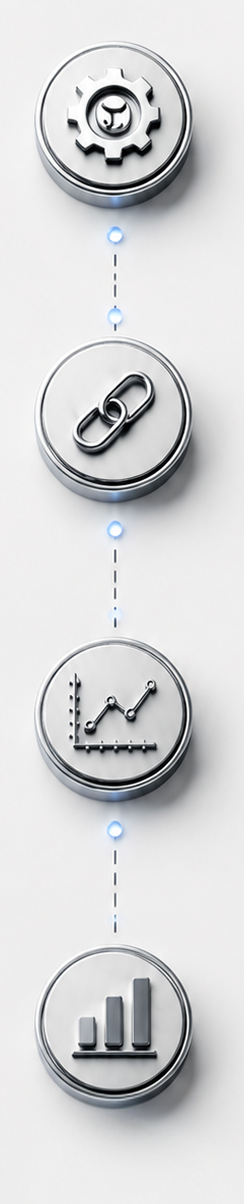
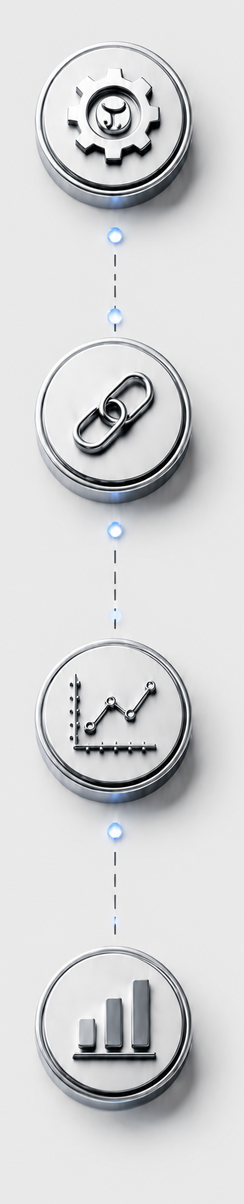
final fix 20.09

diff --git a/src/translations.ts b/src/translations.ts
@@ -1175,7 +1175,7 @@ export const translations = {
                     totalIncome: "Загальний дохід",
                     finalBalance: "Підсумковий баланс",
                     description: "Terra EA в середньому робить стабільні +25% на рік/1.6% на місяць.<br/>Чим більший термін інвестицій, тим більша магія складного відсотку!",
-                    descriptionAero: "Aero EA в середньому робить стабільні +30% на рік/2.5% на місяць.<br/>Чим більший термін інвестицій, тим більша магія складного відсотку!",
+                    descriptionAero: "Aero EA в середньому робить стабільні +35% на рік/2.9% на місяць.<br/>Чим більший термін інвестицій, тим більша магія складного відсотку!",
                     descriptionHydro: "Hydro EA в середньому робить стабільні +50% на рік/4.2% на місяць.<br/>Чим більший термін інвестицій, тим більша магія складного відсотку!"
                 }
             }
@@ -1256,9 +1256,9 @@ export const translations = {
                 subtitle: "На live рахунку Aero демонструє феноменальний результат з дохідністю 2%/місяць при просадці 3.7%",
                 winrateText: "При цьому його winrate досягнув показника в 86.8%.",
                 stats: [
-                    {label: "Year profit", value: "+30%"},
-                    {label: "Max drawdown", value: "3.7%"},
-                    {label: "Winrate", value: "86.8%"}
+                    {label: "Year profit", value: "+35%"},
+                    {label: "Max drawdown", value: "10%"},
+                    {label: "Winrate", value: "85%"}
                 ],
                 button: "Дивитися статистику"
             },
@@ -1393,7 +1393,7 @@ export const translations = {
                 {
                     name: "Aero EA",
                     description: "Торговий бот для XAUUSD (золота), створений на основі стратегії пробою азійського діапазону.",
-                    advantages: {yearProfit: "+30%", maxDrawDown: "3.7%", winRate: "86.8%"},
+                    advantages: {yearProfit: "+35%", maxDrawDown: "10%", winRate: "85%"},
                     price: 900,
                     href: "/aero",
                     prop: true,
@@ -1469,17 +1469,13 @@ export const translations = {
                     answer: "Ліцензія безстрокова. Ви купуєте її один раз і користуєтеся без обмежень у часі. Прив’язка відбувається до номера рахунку під час першого запуску: один рахунок — одна активація. Якщо потрібен ще один рахунок — просто напишіть нам, і ми додамо його безкоштовно. Кількість рахунків для одного покупця не обмежена."
                 },
                 {
-                    question: "Чи можна втратити весь депозит?",
-                    answer: "Торгівля з плечем завжди несе ризик втрат, і ми не станемо стверджувати протилежне. Але наші налаштування підібрані так, щоб просадка залишалася в межах 15–20%, і ці показники підтверджуються статистикою."
-                },
-                {
                     question: "Чи отримаю я оновлення?",
                     answer: "Так, усі оновлення входять у вартість — доплачувати нічого не потрібно. Ми постійно оновлюємо своїх ботів: стежимо за їхньою роботою на реальних рахунках, адаптуємо до змін у брокерів і покращуємо фільтри входу. Частина налаштувань оновлюється на нашому боці та застосовується автоматично, без перевстановлення. Про великі оновлення ми повідомляємо та надсилаємо нову версію."
                 },
                 {
-                    question: "Як отримати консультацію?",
-                    answer: "Напишіть нам на пошту або в Telegram, де ми зможемо підібрати найбільш відповідний варіант під ваші цілі!"
-                }
+                    question: "Чи можна втратити весь депозит?",
+                    answer: "Торгівля з плечем завжди несе ризик втрат, і ми не станемо стверджувати протилежне. Але наші налаштування підібрані так, щоб просадка залишалася в межах 15–20%, і ці показники підтверджуються статистикою."
+                },
             ],
             steps: {
                 title: "<span>Шлях від налаштування</span> до першої угоди",
@@ -3038,7 +3034,7 @@ export const translations = {
                     totalIncome: "Общий доход",
                     finalBalance: "Итоговый баланс",
                     description: "Terra EA в среднем делает стабильные +25% в год/1.6% в месяц.<br/>Чем больше срок инвестиций, тем больше магия сложного процента!",
-                    descriptionAero: "Aero EA в среднем делает стабильные +30% в год/2.5% в месяц.<br/>Чем больше срок инвестиций, тем больше магия сложного процента!",
+                    descriptionAero: "Aero EA в среднем делает стабильные +35% в год/2.9% в месяц.<br/>Чем больше срок инвестиций, тем больше магия сложного процента!",
                     descriptionHydro: "Hydro EA в среднем делает стабильные +50% в год/4.2% в месяц.<br/>Чем больше срок инвестиций, тем больше магия сложного процента!"
                 }
             }
@@ -3118,9 +3114,9 @@ export const translations = {
                 subtitle: "На live счету Aero демонстрирует феноменальный результат с доходностью 2%/месяц при просадке 3.7%",
                 winrateText: "При этом его winrate достиг показателя в 86.8%.",
                 stats: [
-                    {label: "Year profit", value: "+30%"},
-                    {label: "Max drawdown", value: "3.7%"},
-                    {label: "Winrate", value: "86.8%"}
+                    {label: "Year profit", value: "+35%"},
+                    {label: "Max drawdown", value: "10%"},
+                    {label: "Winrate", value: "85%"}
                 ],
                 button: "Смотреть статистику"
             },
@@ -3255,7 +3251,7 @@ export const translations = {
                 {
                     name: "Aero EA",
                     description: "Торговый бот для XAUUSD (золота), созданный на основе стратегии пробоя азиатского диапазона.",
-                    advantages: {yearProfit: "+30%", maxDrawDown: "3.7%", winRate: "86.8%"},
+                    advantages: {yearProfit: "+35%", maxDrawDown: "10%", winRate: "85%"},
                     price: 900,
                     href: "/aero",
                     prop: true,
@@ -3319,17 +3315,13 @@ export const translations = {
                     answer: "Лицензия бессрочная. Вы покупаете её один раз и пользуетесь без ограничений по времени. Привязка происходит к номеру счёта при первом запуске: один счёт — одна активация. Если нужен ещё один счёт — просто напишите нам, и мы добавим его бесплатно. Количество счетов для одного покупателя не ограничено."
                 },
                 {
-                    question: "Можно ли потерять весь депозит?",
-                    answer: "Торговля с плечом всегда несёт риск потерь, и мы не станем утверждать обратное. Но наши настройки подобраны так, чтобы просадка оставалась в пределах 15–20%, и эти показатели подтверждаются статистикой."
-                },
-                {
                     question: "Получу ли я обновления?",
                     answer: "Да, все обновления входят в стоимость — доплачивать ничего не нужно. Мы постоянно обновляем своих ботов: следим за их работой на реальных счетах, адаптируем к изменениям у брокеров и улучшаем фильтры входа. Часть настроек обновляется на нашей стороне и применяется автоматически, без переустановки. О крупных обновлениях мы сообщаем и присылаем новую версию."
                 },
                 {
-                    question: "Как получить консультацию?",
-                    answer: "Напишите нам на почту или в Telegram, где мы сможем подобрать наиболее подходящий вариант под ваши цели!"
-                }
+                    question: "Можно ли потерять весь депозит?",
+                    answer: "Торговля с плечом всегда несёт риск потерь, и мы не станем утверждать обратное. Но наши настройки подобраны так, чтобы просадка оставалась в пределах 15–20%, и эти показатели подтверждаются статистикой."
+                },
             ], hero: {
                 title: "Ваш капитал растет — без вашего участия",
                 desc: "Торговые боты, которые самостоятельно работают по четкой стратегии — с минимальной просадкой и реальной историей на живых счетах.",
@@ -4760,7 +4752,7 @@ export const translations = {
                     totalIncome: "Total Income",
                     finalBalance: "Final Balance",
                     description: "Terra EA averages a stable +25% per year / 1.6% per month.<br/>The longer the investment period, the greater the magic of compound interest!",
-                    descriptionAero: "Aero EA averages a stable +30% per year / 2.5% per month.<br/>The longer the investment period, the greater the magic of compound interest!",
+                    descriptionAero: "Aero EA averages a stable +35% per year / 2.9% per month.<br/>The longer the investment period, the greater the magic of compound interest!",
                     descriptionHydro: "Hydro EA averages a stable +50% per year / 4.2% per month.<br/>The longer the investment period, the greater the magic of compound interest!"
                 }
             }
@@ -4842,9 +4834,9 @@ export const translations = {
                 subtitle: "On a live account, Aero demonstrates phenomenal results with a profitability of 2%/month at a drawdown of 3.7%",
                 winrateText: "Meanwhile, its win rate has reached 86.8%.",
                 stats: [
-                    {label: "Year profit", value: "+30%"},
-                    {label: "Max drawdown", value: "3.7%"},
-                    {label: "Winrate", value: "86.8%"}
+                    {label: "Year profit", value: "+35%"},
+                    {label: "Max drawdown", value: "10%"},
+                    {label: "Winrate", value: "85%"}
                 ],
                 button: "View statistics"
             },
@@ -4988,7 +4980,7 @@ export const translations = {
                 {
                     name: "Aero EA",
                     description: "Expert Advisor for XAUUSD (Gold), built on a Asian Range breakout strategy.",
-                    advantages: {yearProfit: "+30%", maxDrawDown: "3.7%", winRate: "86.8%"},
+                    advantages: {yearProfit: "+35%", maxDrawDown: "10%", winRate: "85%"},
                     price: 900,
                     href: "/aero",
                     prop: true,
@@ -5052,17 +5044,14 @@ export const translations = {
                     answer: "The licence is perpetual. You pay once and use it with no time limit. It is linked to your account number on first launch: one account — one activation. If you need another account, just write to us, and we will add it free of charge. There is no limit on the number of accounts per customer."
                 },
                 {
-                    question: "Can I lose my whole deposit?",
-                    answer: "Trading with leverage always carries the risk of loss, and we will not claim otherwise. However, our settings are designed to keep drawdown within 15–20%, and these figures are supported by our statistics."
-                },
-                {
                     question: "Will I get updates?",
                     answer: "Yes, all updates are included in the price — there is nothing extra to pay. We continuously maintain our bots: we monitor their performance on live accounts, adapt them to changes introduced by brokers, and improve the entry filters. Some settings are updated on our side and applied automatically, with no need to reinstall the bot. We will notify you about major updates and send you the new version."
                 },
                 {
-                    question: "How do I get a consultation?",
-                    answer: "Write to us by email or on Telegram, and we will help you choose the option that best fits your goals!"
-                }
+                    question: "Can I lose my whole deposit?",
+                    answer: "Trading with leverage always carries the risk of loss, and we will not claim otherwise. However, our settings are designed to keep drawdown within 15–20%, and these figures are supported by our statistics."
+                },
+
             ], hero: {
                 title: "Your capital grows — without your involvement",
                 desc: "Trading bots that operate autonomously using a clear strategy — with minimal drawdown and a real track record on live accounts.",

diff --git a/src/components/Footer.tsx b/src/components/Footer.tsx
@@ -2,6 +2,7 @@
 import React, {useEffect, useState} from 'react';
 import logo from "@/app/images/logo.svg";
 import tg_icon from "@/app/images/tg_icon.svg";
+import instagram_icon from "@/app/images/insta_icon.svg";
 import youtube_icon from "@/app/images/youtube_icon.svg";
 import {HTMLMotionProps, motion} from "framer-motion";
 import {useLanguage} from "@/context/LanguageProvider";
@@ -40,19 +41,19 @@ const Footer = () => {
                 {isMobile ?
                     <div className="society_block">
                         <div>
-                            <a href={language === "EN" ? "https://t.me/algoworId" : "https://t.me/+uKCqVOr1OAE2ZmQy"}
+                            <a href="https://t.me/+uKCqVOr1OAE2ZmQy"
                                target="_blank" rel="noreferrer">
                                 <img src={tg_icon.src} alt=""/>
                             </a>
                         </div>
-                        {/*<div>
+                        <div>
                             <a href="https://www.instagram.com/alg0_bots?igsh=NW82eGFuajRlYmpw" target="_blank"
                                rel="noreferrer">
                                 <img src={instagram_icon.src} alt=""/>
                             </a>
-                        </div>*/}
+                        </div>
                         <div>
-                            <a href={language === "EN" ? "https://www.youtube.com/channel/UCUdEXqsf87y8gSnz7FjxS8g" : "https://www.youtube.com/@alg0_ofx"}
+                            <a href="https://www.youtube.com/@alg0_ofx"
                                target="_blank"
                                rel="noreferrer">
                                 <img src={youtube_icon.src} alt=""/>
@@ -61,14 +62,14 @@ const Footer = () => {
                     </div>
 
                     : <div className="society_block">
-                        {/* <div>
+                         <div>
                            <a href="https://www.instagram.com/alg0_bots?igsh=NW82eGFuajRlYmpw">{t.terra.footer.instagram}</a>
-                        </div>*/}
-                        <div>
-                            <a href={language === "EN" ? "https://www.youtube.com/channel/UCUdEXqsf87y8gSnz7FjxS8g" : "https://www.youtube.com/@alg0_ofx"}>{t.terra.footer.youtube}</a>
                         </div>
                         <div>
-                            <a href={language === "EN" ? "https://t.me/algoworId" : "https://t.me/+uKCqVOr1OAE2ZmQy"}>{t.terra.footer.telegram}</a>
+                            <a href="https://www.youtube.com/@alg0_ofx">{t.terra.footer.youtube}</a>
+                        </div>
+                        <div>
+                            <a href="https://t.me/+uKCqVOr1OAE2ZmQy">{t.terra.footer.telegram}</a>
                         </div>
                     </div>}
             </motion.div>

diff --git a/src/app/page.tsx b/src/app/page.tsx
@@ -904,6 +904,13 @@ const MainPage = ({activePopup, setActivePopup}: any) => {
                                                     <span>USD</span>
                                                 </div>
                                             </div>
+                                            {el.name === "Aero EA" ?
+                                            <div className="bot_marquee">
+                                                <div className="bot_marquee_group">
+                                                    <span>One-time payment · Lifetime access · All updates included · One-time payment · Lifetime access · </span>
+                                                </div>
+
+                                            </div> : ""}
 
                                             <a href={el.name === "Aero EA" ? el.href : ""}>
                                                 <div className="bot_more_details">
@@ -984,6 +991,14 @@ const MainPage = ({activePopup, setActivePopup}: any) => {
                                                     <span>USD</span>
                                                 </div>
                                             </div>
+
+                                            {el.name === "Aero EA" ?
+                                                <div className="bot_marquee">
+                                                    <div className="bot_marquee_group">
+                                                        <span>One-time payment · Lifetime access · All updates included · One-time payment · Lifetime access · </span>
+                                                    </div>
+
+                                                </div> : ""}
 
 
                                             <a href={el.name === "Aero EA" ? el.href : ""}>

diff --git a/src/app/styles/mainPageStyle.css b/src/app/styles/mainPageStyle.css
@@ -1489,6 +1489,85 @@ height: 52px !important;
     line-height: 120%;
 
 }
+.bot_marquee {
+    container-type: inline-size;
+
+    position: relative;
+
+    width: 100%;
+    height: 16px;
+    margin-top: 16px;
+
+    overflow: hidden;
+}
+
+.bot_marquee::before,
+.bot_marquee::after {
+    content: "";
+
+    position: absolute;
+    top: 0;
+    bottom: 0;
+    z-index: 2;
+
+    width: 50px;
+
+    pointer-events: none;
+}
+
+.bot_marquee::before {
+    left: 0;
+
+    background: linear-gradient(
+            90deg,
+            #ffffff 0%,
+            rgba(255, 255, 255, 0) 100%
+    );
+}
+
+.bot_marquee::after {
+    right: 0;
+
+    background: linear-gradient(
+            270deg,
+            #ffffff 0%,
+            rgba(255, 255, 255, 0) 100%
+    );
+}
+
+.bot_marquee_group {
+    position: absolute;
+    top: 0;
+    left: 0;
+    z-index: 1;
+
+    display: flex;
+    align-items: center;
+    width: max-content;
+
+    white-space: nowrap;
+
+    animation: advantagesMove 30s ease-in-out infinite;
+    will-change: transform;
+
+    color: #727272;
+    font-family: Inter, sans-serif;
+    font-weight: 500;
+    font-size: 14px;
+    line-height: 120%;
+    letter-spacing: -0.02em;
+}
+
+@keyframes advantagesMove {
+    0%,
+    100% {
+        transform: translateX(0);
+    }
+
+    50% {
+        transform: translateX(calc(100cqw - 100%));
+    }
+}
 
 
 .bot_image img {
@@ -2690,7 +2769,7 @@ height: 52px !important;
     }
 
     .society_block {
-        width: 74px;
+        width: 116px;
         align-items: center;
         justify-content: space-around;
         flex-shrink: 0;
